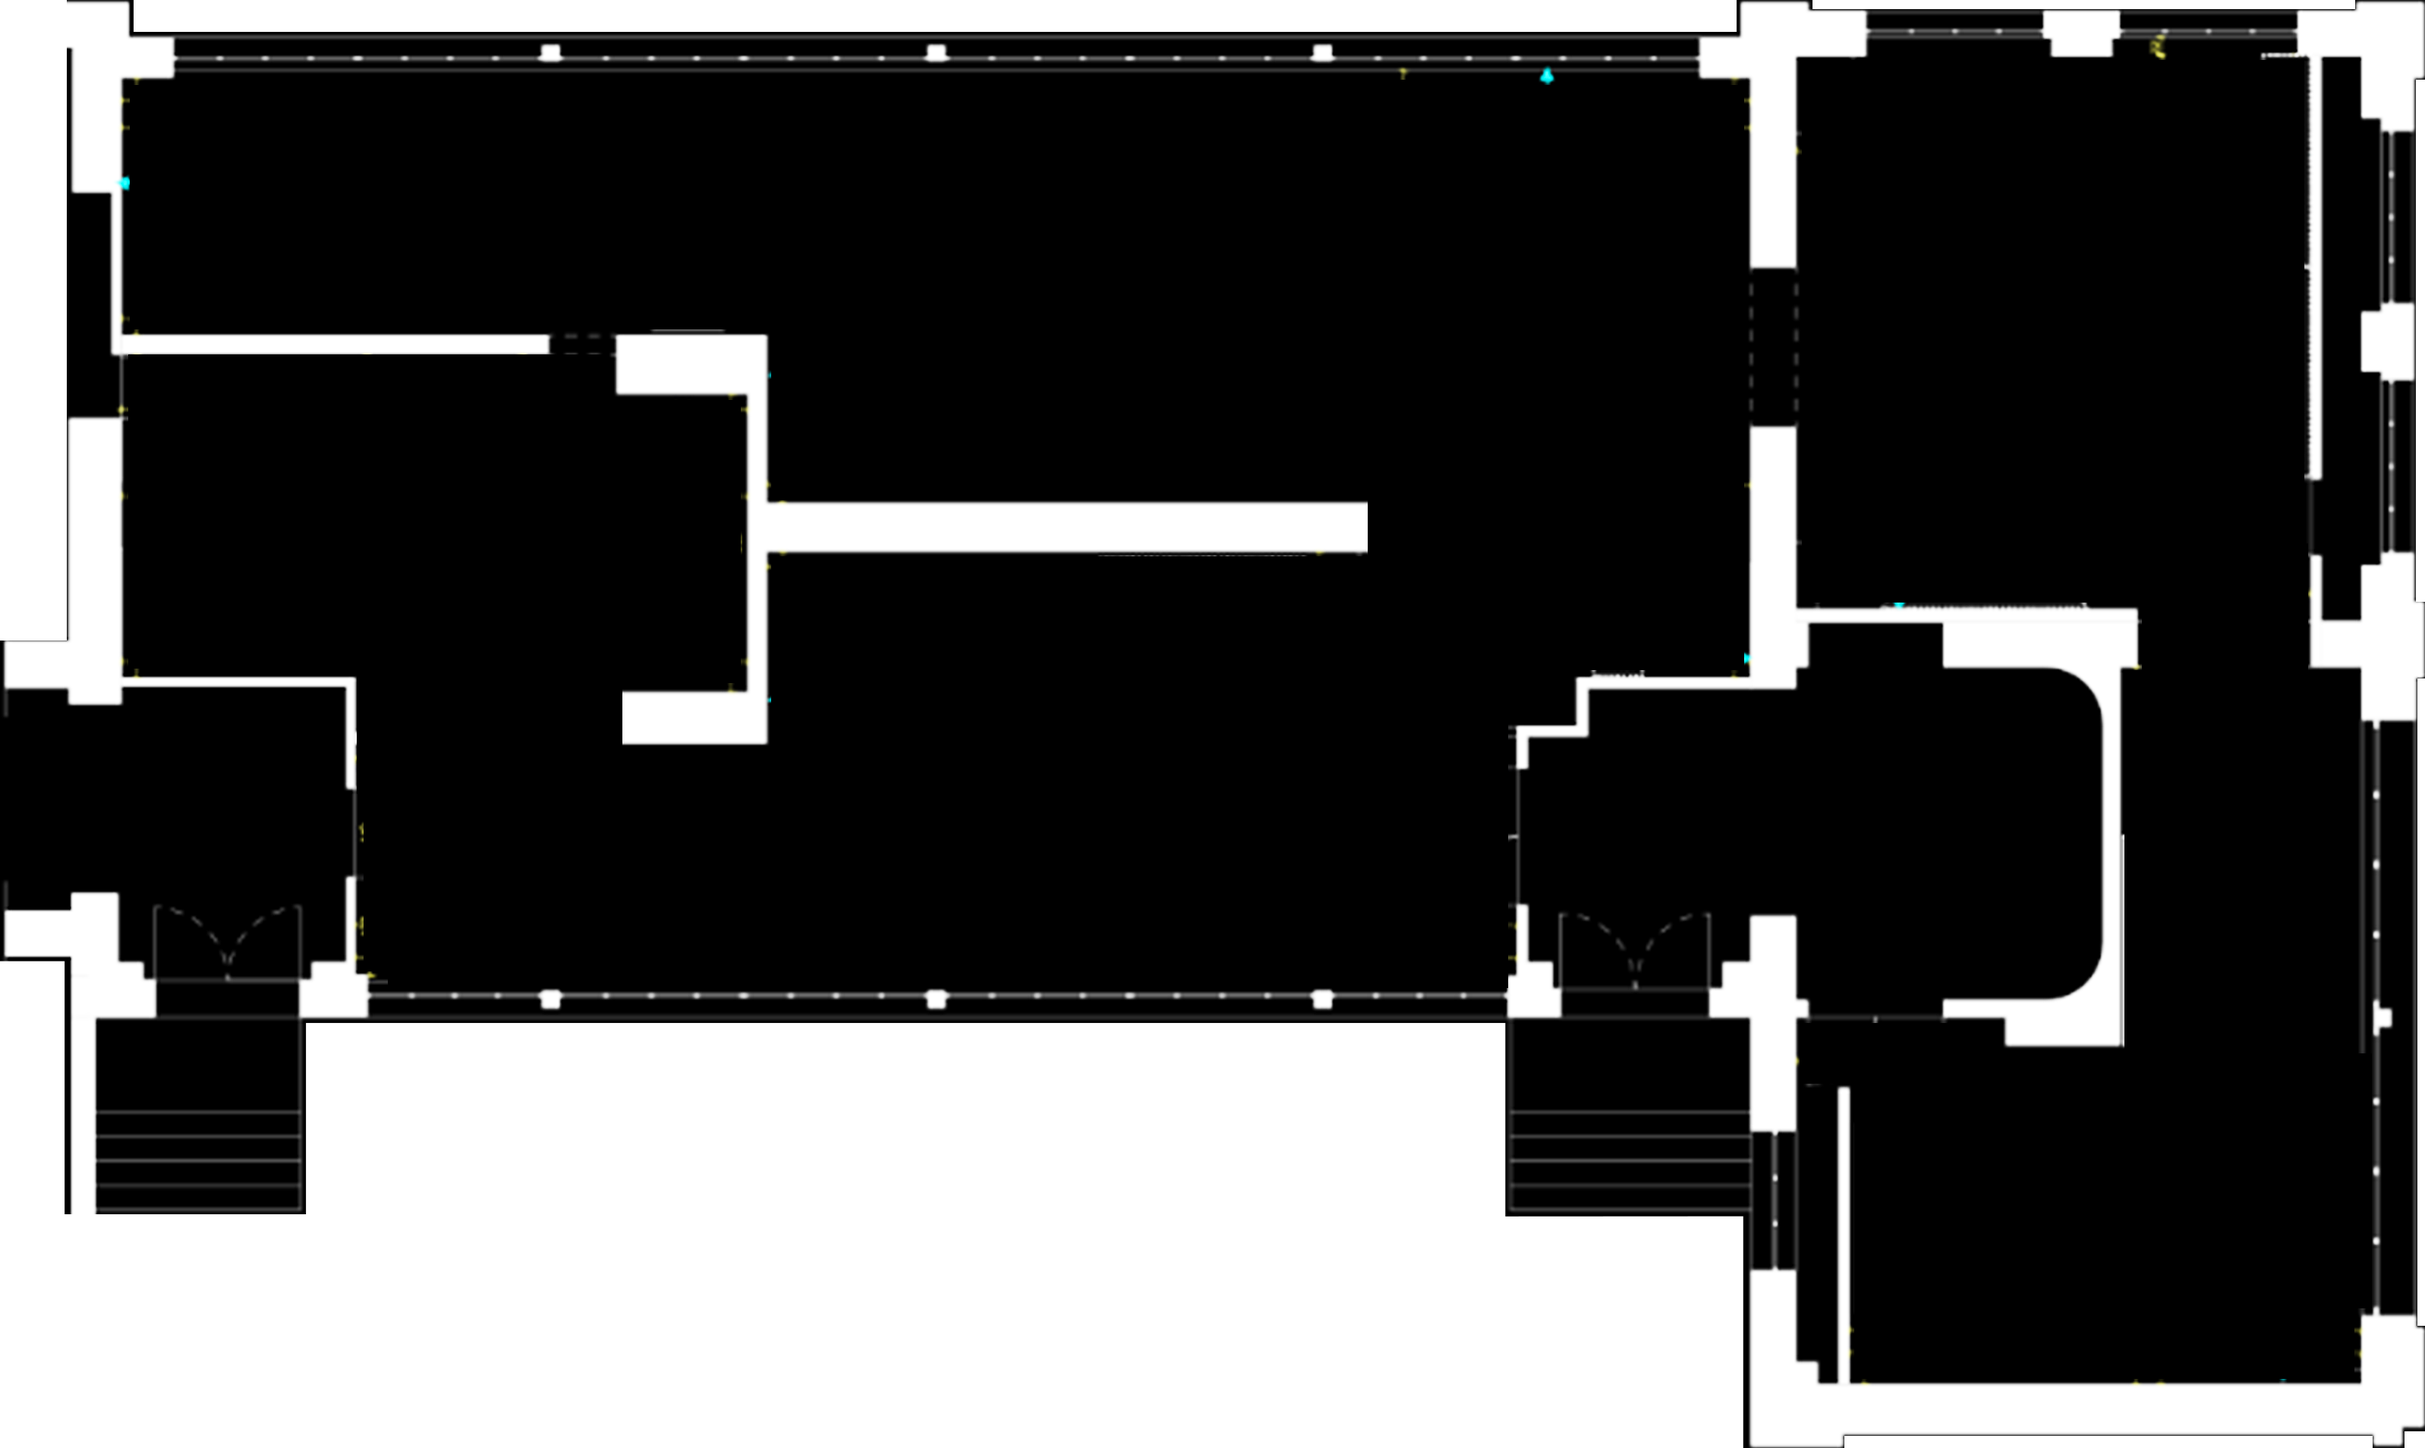
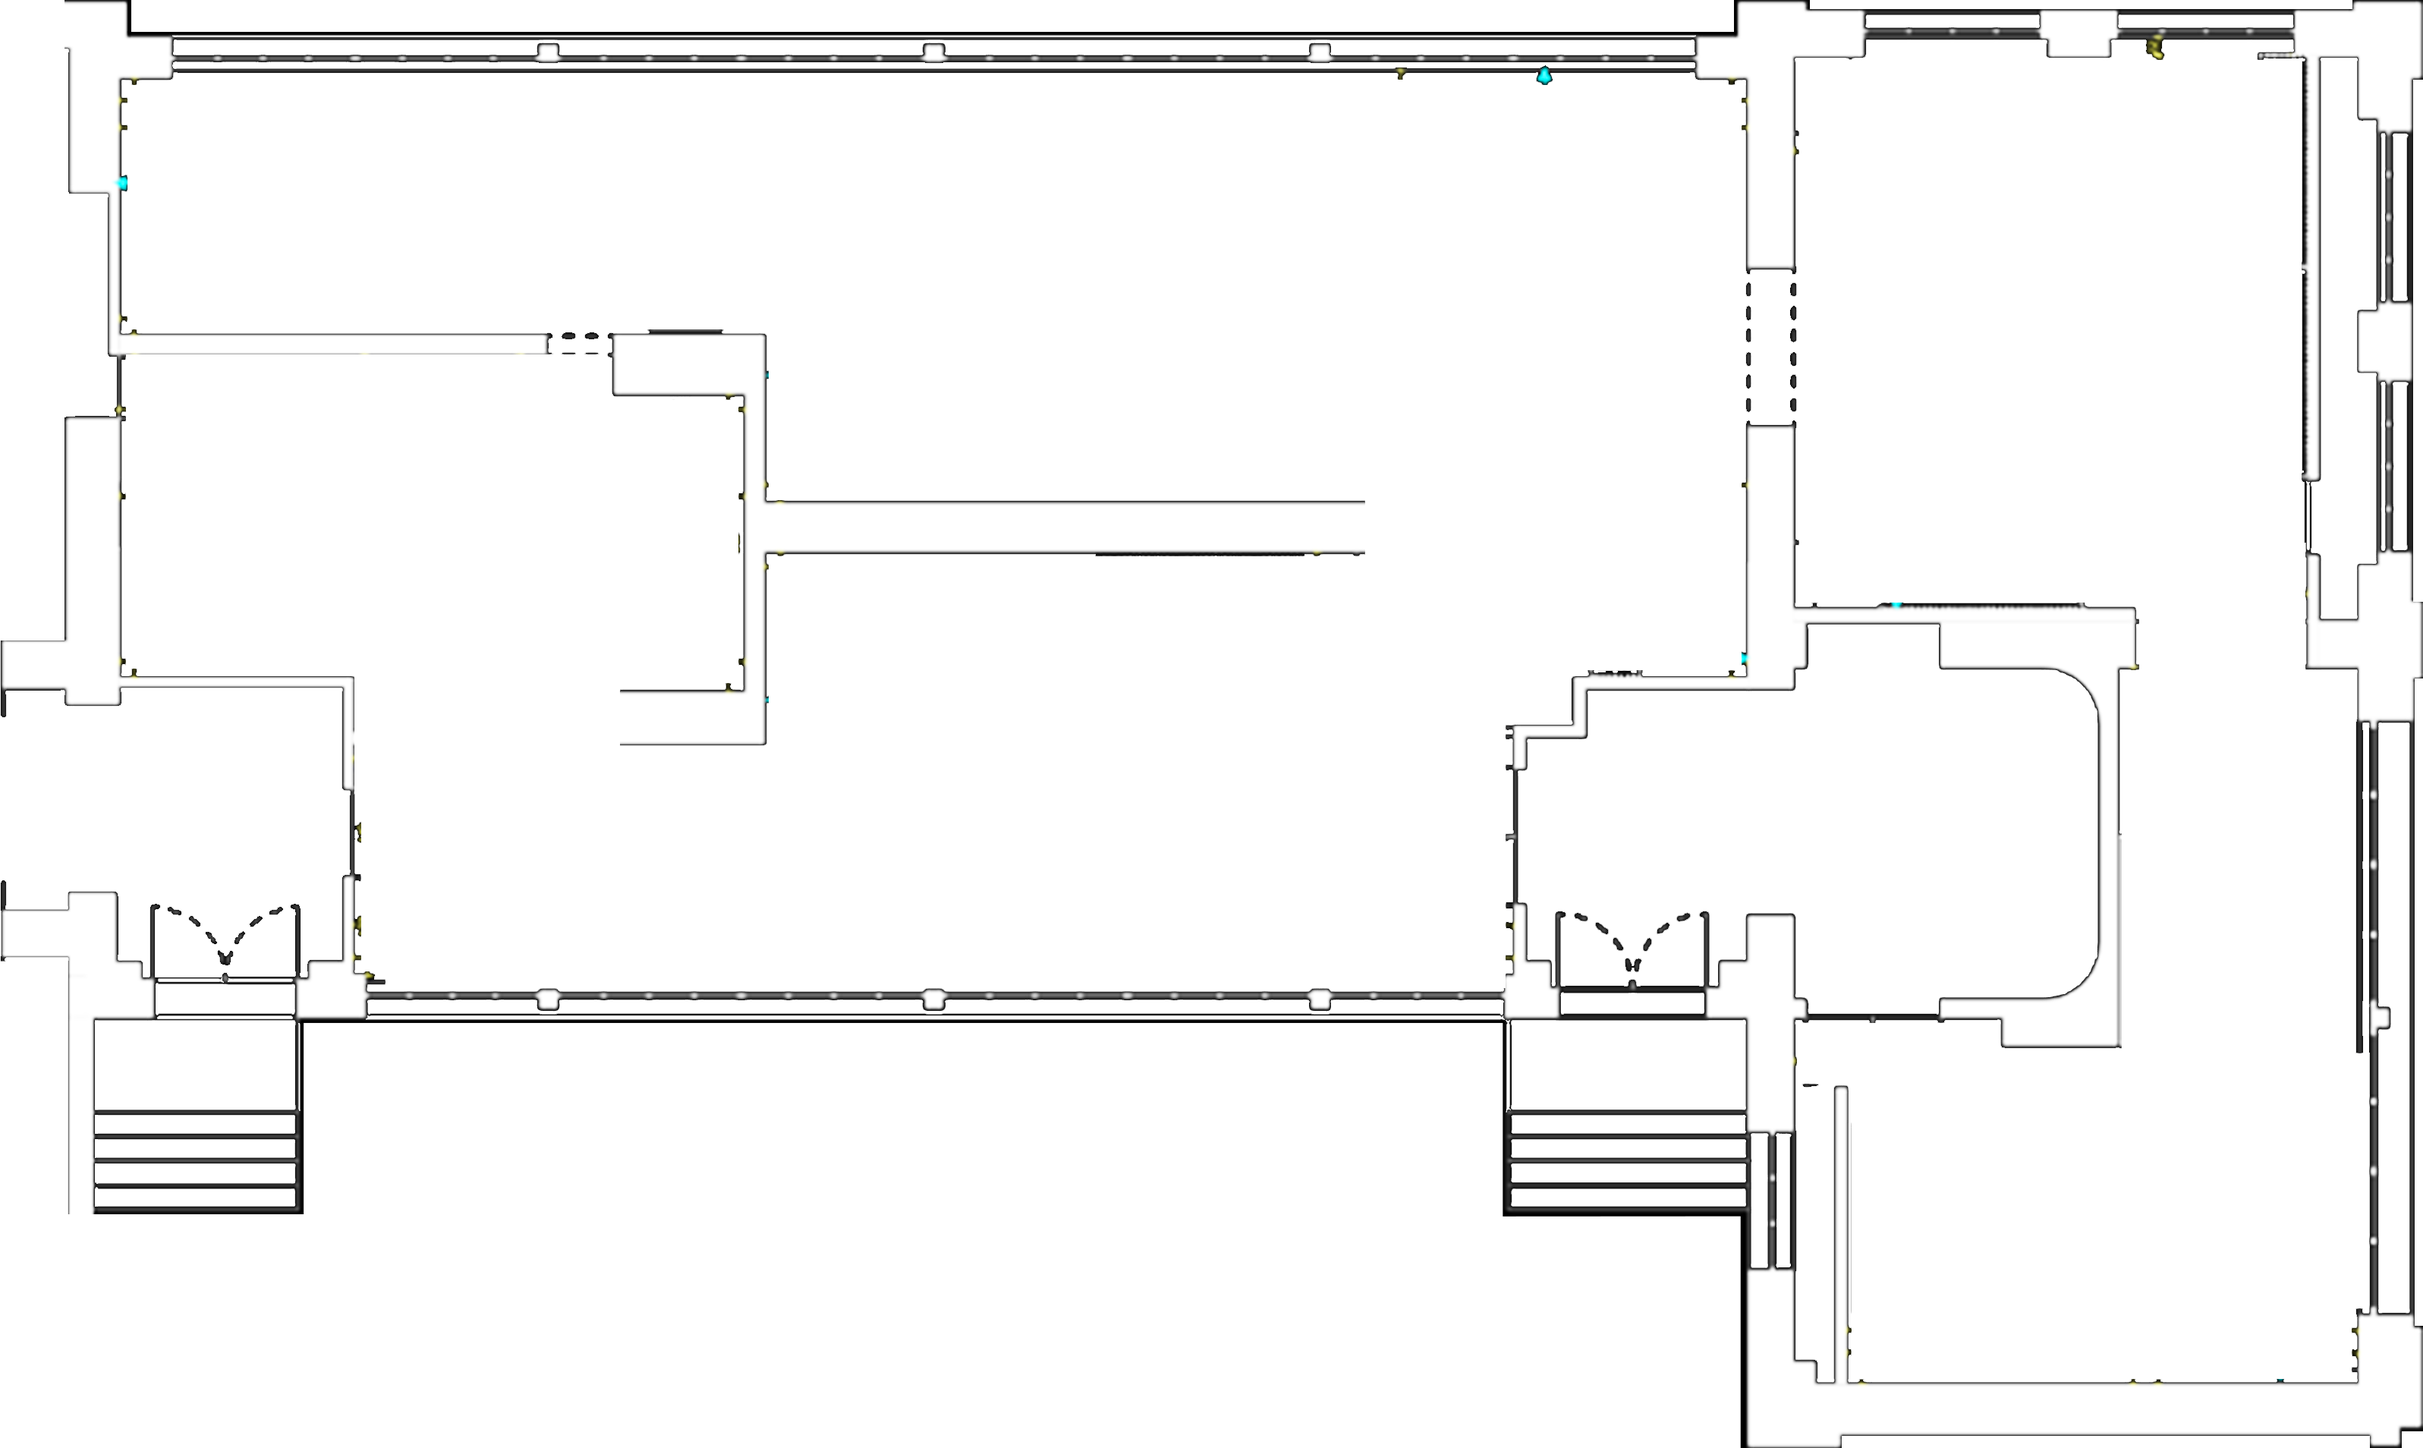
update ecart site

diff --git a/zones/pannel-ui.css b/zones/pannel-ui.css
@@ -99,11 +99,74 @@ body.ecart-audio-active .ecart-ui-cluster {
 
 
 /* ==========================================================
-   BOUTON ŒIL — focus mode, injecté dans .sidebar-top
-   Même style que .home-button
+   CONTENEUR TOP-RIGHT — boutons ŒIL + LIGHT
+   Aligné sur le même right que le cluster (--ecart-ui-right)
    ========================================================== */
 
-.ecart-focus-btn {
+#ecartTopRight {
+  position: fixed;
+  top:   calc(18px + env(safe-area-inset-top, 0px));
+  right: var(--ecart-ui-right);
+  z-index: 100060;
+  display: flex;
+  flex-direction: column;
+  align-items: center;
+  gap: var(--ecart-ui-gap);
+  pointer-events: auto;
+}
+
+@media (max-width: 480px) and (orientation: portrait) {
+  #ecartTopRight { right: 12px; }
+}
+
+
+/* ==========================================================
+   TOAST — "SURFACE PHOTOSENSIBLE : ON / OFF"
+   Haut-droite sous les boutons œil + light, disparaît après ~2.6s
+   Calcul : 18px (top #ecartTopRight) + 34px (œil) + 8px (gap) + 34px (soleil) + 10px
+   ========================================================== */
+
+.ecart-toast {
+  position: fixed;
+  top:   calc(104px + env(safe-area-inset-top, 0px));
+  right: var(--ecart-ui-right);
+  left:  auto;
+  transform: none;
+  text-align: right;
+  z-index: 100200;
+
+  font-family: Arial, Helvetica, sans-serif;
+  font-size: clamp(0.62rem, 2vw, 0.92rem);
+  font-weight: 700;
+  letter-spacing: 0.30em;
+  text-transform: uppercase;
+
+  color: rgba(255,255,255,0.92);
+  text-shadow:
+    0 0 18px rgba(255,255,255,0.36),
+    0 0 40px rgba(255,255,255,0.16);
+
+  pointer-events: none;
+  white-space: nowrap;
+  user-select: none;
+
+  animation: ecartToastAnim 2.6s cubic-bezier(0.4, 0, 0.2, 1) forwards;
+}
+
+@keyframes ecartToastAnim {
+  0%   { opacity: 0; letter-spacing: 0.40em; }
+  14%  { opacity: 1; letter-spacing: 0.30em; }
+  70%  { opacity: 1; letter-spacing: 0.30em; }
+  100% { opacity: 0; letter-spacing: 0.22em; }
+}
+
+
+/* ==========================================================
+   BOUTONS ŒIL + LIGHT — style unifié (même que home-button)
+   ========================================================== */
+
+.ecart-focus-btn,
+.ecart-light-btn {
   width: 34px;
   height: 34px;
   flex-shrink: 0;
@@ -128,15 +191,17 @@ body.ecart-audio-active .ecart-ui-cluster {
   pointer-events: auto;
 }
 
-.ecart-focus-btn:hover {
+.ecart-focus-btn:hover,
+.ecart-light-btn:hover {
   background:   rgba(255,255,255,0.13);
   border-color: rgba(255,255,255,0.36);
 }
 
-.ecart-focus-btn:active { transform: scale(0.90); }
+.ecart-focus-btn:active,
+.ecart-light-btn:active { transform: scale(0.90); }
 
-/* Actif : fond blanc comme home-button sélectionné */
-.ecart-focus-btn.is-active {
+.ecart-focus-btn.is-active,
+.ecart-light-btn.is-active {
   background:   rgba(255,255,255,0.92);
   border-color: transparent;
   color:        #000;
@@ -151,51 +216,112 @@ body.ecart-focus-mode .ecart-focus-btn .eye-closed { display: block; }
 
 
 /* ==========================================================
-   MODE FOCUS — cache le cluster (SOUND / MAP / INFO / LIGHT)
-   La sidebar, le logo et le nom de zone restent accessibles
+   MODE FOCUS — immersion totale
+   Cache : sidebar, zone-identity, MAP, INFO
+   Garde : #ecartTopRight (œil + light), SOUND + son panel
    ========================================================== */
 
-body.ecart-focus-mode .ecart-ui-cluster {
-  opacity: 0;
-  pointer-events: none;
-  transform: translateY(6px);
-  transition:
-    opacity   0.22s ease,
-    transform 0.22s ease,
-    bottom    0.30s cubic-bezier(0.4, 0, 0.2, 1);
+/* Sidebar et identité de zone disparaissent */
+body.ecart-focus-mode .sidebar,
+body.ecart-focus-mode .zone-identity {
+  opacity: 0 !important;
+  pointer-events: none !important;
+  transition: opacity 0.28s ease;
 }
 
-/* Ferme aussi les panels si ouverts */
-body.ecart-focus-mode #infoPanel,
+/* MAP et INFO cachés dans le cluster — SOUND reste visible */
+body.ecart-focus-mode #mobileMapToggle,
+body.ecart-focus-mode #infoToggle {
+  display: none !important;
+}
+
+/* Panels MAP et INFO fermés */
 body.ecart-focus-mode #mobileMapOverlay,
-body.ecart-focus-mode #ecartAudioPanel {
+body.ecart-focus-mode #infoPanel {
   opacity: 0 !important;
   pointer-events: none !important;
   visibility: hidden !important;
 }
+/* Le panel SOUND (#ecartAudioPanel) reste accessible en mode focus */
+
+/* #ecartTopRight toujours visible */
+body.ecart-focus-mode #ecartTopRight {
+  z-index: 100200;
+}
+
+/* Bouton SOUND repositionné seul dans le cluster (pas besoin de CSS spécial,
+   MAP et INFO sont display:none, SOUND s'affiche seul) */
 
 
 /* ==========================================================
-   MODE JOUR (LIGHT) — inversion colorimétrique globale
-   Les images/canvas/vidéos sont ré-inversées pour rester lisibles
+   MODE JOUR (LIGHT) — filtre accessibilité visuelle
+   Inversion partielle (0.88) : fond noir → gris-blanc doux,
+   pas de blanc pur → moins d'éblouissement.
+   Contraste réduit (0.90) → atténue l'effet d'empâtement
+   sur les textes causé par l'inversion des halos d'anti-aliasing.
+   canvas/iframe non ré-inversés → scènes 3D affectées.
    ========================================================== */
 
 html.ecart-light-mode {
-  filter: invert(1);
+  filter: invert(0.88) brightness(1.04) contrast(0.90);
 }
 
 html.ecart-light-mode img,
-html.ecart-light-mode video,
-html.ecart-light-mode canvas,
-html.ecart-light-mode iframe,
-html.ecart-light-mode .mini-map-image {
-  filter: invert(1);
+html.ecart-light-mode video {
+  filter: invert(0.88) brightness(1.04) contrast(0.90);
 }
 
-/* Bouton LIGHT actif dans le cluster */
-#ecartLightToggle.is-active {
-  background:   rgba(255,255,255,0.96) !important;
-  color:        #000 !important;
+html.ecart-light-mode .mini-map-image {
+  filter: invert(0.88) grayscale(1) contrast(1.00) brightness(0.96);
+}
+
+
+
+/* ==========================================================
+   MODE JOUR — boutons lisibles après invert(0.88)
+   On donne aux boutons fond sombre + texte blanc AVANT filtre,
+   ce qui produit fond clair + texte sombre APRÈS inversion.
+   ========================================================== */
+
+html.ecart-light-mode .ecart-ui-cluster > button {
+  background:   rgba(0,0,0,0.80) !important;
+  color:        rgba(255,255,255,0.96) !important;
+  border-color: rgba(0,0,0,0.40) !important;
+  box-shadow:   0 1px 8px rgba(0,0,0,0.36) !important;
+}
+
+html.ecart-light-mode .ecart-ui-cluster > button:hover {
+  background:   rgba(0,0,0,0.92) !important;
+  border-color: rgba(0,0,0,0.60) !important;
+  color:        #fff !important;
+}
+
+html.ecart-light-mode .ecart-ui-cluster > button.is-open,
+html.ecart-light-mode .ecart-ui-cluster > button.is-playing {
+  background:   #000 !important;
+  color:        #fff !important;
+  border-color: transparent !important;
+  box-shadow:   0 2px 12px rgba(0,0,0,0.30) !important;
+}
+
+/* Boutons œil + light (top-right) idem */
+html.ecart-light-mode .ecart-focus-btn,
+html.ecart-light-mode .ecart-light-btn {
+  background:   rgba(0,0,0,0.80) !important;
+  border-color: rgba(0,0,0,0.40) !important;
+  color:        rgba(255,255,255,0.96) !important;
+}
+
+html.ecart-light-mode .ecart-focus-btn:hover,
+html.ecart-light-mode .ecart-light-btn:hover {
+  background:   rgba(0,0,0,0.92) !important;
+  border-color: rgba(0,0,0,0.60) !important;
+}
+
+html.ecart-light-mode .ecart-focus-btn.is-active,
+html.ecart-light-mode .ecart-light-btn.is-active {
+  background:   #000 !important;
+  color:        #fff !important;
   border-color: transparent !important;
 }
 

diff --git a/zones/pannel-ui.js b/zones/pannel-ui.js
@@ -88,12 +88,41 @@
   }
 
   /* ──────────────────────────────────────────────────────
-     MODE FOCUS — bouton ŒIL injecté dans .sidebar-top
+     TOAST — "SURFACE PHOTOSENSIBLE : ON / OFF"
+     ────────────────────────────────────────────────────── */
+
+  function showToast(message) {
+    const existing = qs(".ecart-toast");
+    if (existing) existing.remove();
+
+    const toast = document.createElement("div");
+    toast.className   = "ecart-toast";
+    toast.textContent = message;
+    document.body.appendChild(toast);
+
+    setTimeout(() => { if (toast.parentNode) toast.remove(); }, 2700);
+  }
+
+  /* ──────────────────────────────────────────────────────
+     CONTENEUR TOP-RIGHT — crée #ecartTopRight une seule fois
+     ────────────────────────────────────────────────────── */
+
+  function getOrCreateTopRight() {
+    let el = qs("#ecartTopRight");
+    if (!el) {
+      el = document.createElement("div");
+      el.id = "ecartTopRight";
+      document.body.appendChild(el);
+    }
+    return el;
+  }
+
+  /* ──────────────────────────────────────────────────────
+     MODE FOCUS — bouton ŒIL (top-right)
      ────────────────────────────────────────────────────── */
 
   function initFocusMode() {
-    const sidebarTop = qs(".sidebar-top");
-    if (!sidebarTop) return;
+    const container = getOrCreateTopRight();
 
     const btn = document.createElement("button");
     btn.id        = "ecartFocusToggle";
@@ -102,9 +131,8 @@
     btn.setAttribute("aria-label", "Mode immersif");
     btn.innerHTML = SVG_EYE_OPEN + SVG_EYE_CLOSED;
 
-    sidebarTop.appendChild(btn);
+    container.appendChild(btn);
 
-    /* Restaure l'état depuis localStorage */
     let isActive = localStorage.getItem(FOCUS_KEY) === "1";
 
     function applyFocus(active) {
@@ -112,35 +140,34 @@
       btn.classList.toggle("is-active", active);
       btn.setAttribute("aria-label", active ? "Quitter le mode immersif" : "Mode immersif");
       localStorage.setItem(FOCUS_KEY, active ? "1" : "0");
-      if (active) closeAllPanelsExcept("__none__");
+      if (active) {
+        /* Ferme MAP et INFO — le panel SOUND reste accessible */
+        closeAllPanelsExcept("sound");
+      }
     }
 
     if (isActive) applyFocus(true);
-
-    btn.addEventListener("click", () => {
-      isActive = !isActive;
-      applyFocus(isActive);
-    });
+    btn.addEventListener("click", () => { isActive = !isActive; applyFocus(isActive); });
   }
 
   /* ──────────────────────────────────────────────────────
-     MODE JOUR (LIGHT) — bouton dans le cluster
-     filter: invert(1) sur <html>
+     MODE JOUR (LIGHT) — bouton ☀ (top-right, sous l'œil)
+     filter: invert(0.88)… sur <html>
+     canvas non ré-inversé → scènes 3D affectées
      ────────────────────────────────────────────────────── */
 
   function initLightMode() {
-    const cluster = qs("#ecartUiCluster");
-    if (!cluster) return;
+    const container = getOrCreateTopRight();
 
     const btn = document.createElement("button");
     btn.id        = "ecartLightToggle";
+    btn.className = "ecart-light-btn";
     btn.type      = "button";
     btn.setAttribute("aria-label", "Mode jour");
     btn.innerHTML = SVG_SUN;
 
-    cluster.insertBefore(btn, cluster.firstChild);
+    container.appendChild(btn);
 
-    /* Restaure l'état depuis localStorage */
     let isLight = localStorage.getItem(LIGHT_KEY) === "1";
 
     function applyLight(on) {
@@ -148,14 +175,14 @@
       btn.classList.toggle("is-active", on);
       btn.setAttribute("aria-label", on ? "Mode nuit" : "Mode jour");
       localStorage.setItem(LIGHT_KEY, on ? "1" : "0");
+      /* Toast affiché APRÈS le toggle pour hériter du bon mode visuel */
+      requestAnimationFrame(() => {
+        showToast(on ? "SURFACE PHOTOSENSIBLE : ON" : "SURFACE PHOTOSENSIBLE : OFF");
+      });
     }
 
     if (isLight) applyLight(true);
-
-    btn.addEventListener("click", () => {
-      isLight = !isLight;
-      applyLight(isLight);
-    });
+    btn.addEventListener("click", () => { isLight = !isLight; applyLight(isLight); });
   }
 
   /* ──────────────────────────────────────────────────────
@@ -576,8 +603,8 @@
 
   document.addEventListener("DOMContentLoaded", () => {
     initCluster();
-    initLightMode();   /* ← bouton ☀ dans le cluster */
-    initFocusMode();   /* ← bouton œil dans sidebar-top */
+    initFocusMode();   /* œil en haut dans #ecartTopRight */
+    initLightMode();   /* ☀ en dessous dans #ecartTopRight */
     initSoundDirect();
     initInfoPanel();
     initMapPanel();
